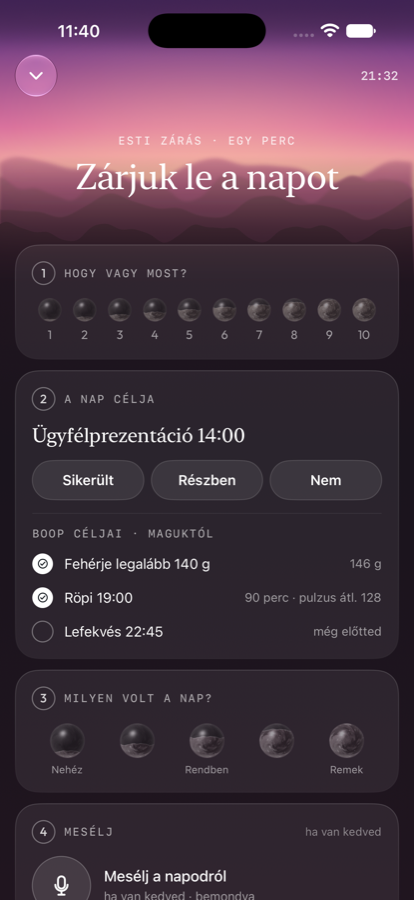
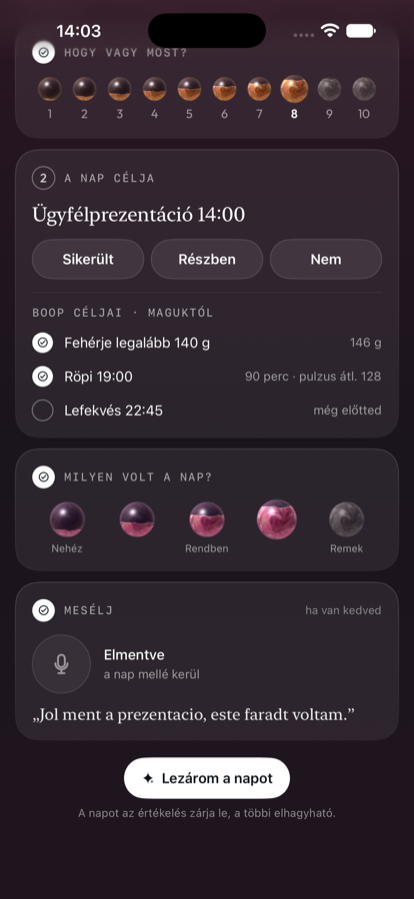
docs(boop): B3 spike — living orbs in the evening close, Mesélj takes typing too (owner feedback) (mezo-r36n9.13)

diff --git a/docs/design_2.0/prototypes/boop-ios-spike/BoopSpike/RitmusParts.swift b/docs/design_2.0/prototypes/boop-ios-spike/BoopSpike/RitmusParts.swift
@@ -74,13 +74,14 @@ struct RLevelRow: View {
     var value: Int?
     var count = 10
     var size: CGFloat = 30
+    var motion: OrbMotion? = nil          // living orbs (the default Napkelte look) when given
     var onPick: (Int) -> Void
     var body: some View {
         HStack(spacing: 0) {
             ForEach(1...count, id: \.self) { k in
                 let on = value.map { k <= $0 } ?? false
                 VStack(spacing: 5) {
-                    StillOrb(colors: palette, size: size, level: Double(k) / Double(count))
+                    orb(k)
                         .saturation(on ? 1 : 0.15).opacity(on ? 1 : 0.5)
                         .scaleEffect(value == k ? 1.18 : 1)
                     Text("\(k)").font(.custom("Outfit", size: 13).weight(value == k ? .semibold : .regular))
@@ -94,6 +95,11 @@ struct RLevelRow: View {
             }
         }
         .sensoryFeedback(.selection, trigger: value)
+    }
+    @ViewBuilder private func orb(_ k: Int) -> some View {
+        let lv = Double(k) / Double(count)
+        if let motion { LivingOrb(mood: .good, size: size, motion: motion, palette: palette, glow: false, level: lv).allowsHitTesting(false) }
+        else { StillOrb(colors: palette, size: size, level: lv) }
     }
 }
 
@@ -303,6 +309,8 @@ struct RVoiceRecorder: View {
     @State private var writing = false
     @State private var elapsed = 0
     @State private var typed = ""
+    @State private var draft = ""
+    @FocusState private var typing: Bool
 
     var body: some View {
         VStack(alignment: .leading, spacing: 12) {
@@ -328,16 +336,36 @@ struct RVoiceRecorder: View {
                     } else if writing {
                         Text("Leírom…").font(.system(size: 15, weight: .medium)).foregroundStyle(.white)
                     } else if text != nil {
-                        Text(offline ? "Felvétel elmentve" : "Leírtam").font(.system(size: 15, weight: .medium)).foregroundStyle(.white)
-                        Text(offline ? "szöveggé alakítom, amint lesz net" : "a nap mellé kerül").font(.system(size: 13)).foregroundStyle(.white.opacity(0.55))
+                        Text(typedByHand ? "Elmentve" : (offline ? "Felvétel elmentve" : "Leírtam")).font(.system(size: 15, weight: .medium)).foregroundStyle(.white)
+                        Text(typedByHand ? "a nap mellé kerül" : (offline ? "szöveggé alakítom, amint lesz net" : "a nap mellé kerül")).font(.system(size: 13)).foregroundStyle(.white.opacity(0.55))
                     } else {
                         Text(prompt).font(.system(size: 16, weight: .medium)).foregroundStyle(.white)
-                        Text("ha van kedved · bemondva").font(.system(size: 13)).foregroundStyle(.white.opacity(0.55))
+                        Text("ha van kedved · mondd be vagy írd le").font(.system(size: 13)).foregroundStyle(.white.opacity(0.55))
                     }
                 }
                 Spacer()
             }
-            if !typed.isEmpty && !offline {
+            if text == nil && !recording && !writing {
+                // typing is as good as talking: the same text lands on the day
+                HStack(spacing: 10) {
+                    TextField("", text: $draft, prompt: Text("Vagy írd be…").foregroundStyle(.white.opacity(0.45)), axis: .vertical)
+                        .lineLimit(1...5).font(.system(size: 15)).foregroundStyle(.white).tint(.white)
+                        .focused($typing).submitLabel(.done)
+                        .onSubmit { commitTyped() }
+                    if !draft.trimmingCharacters(in: .whitespacesAndNewlines).isEmpty {
+                        Button { commitTyped() } label: {
+                            Image(systemName: "arrow.up").font(.system(size: 14, weight: .bold)).foregroundStyle(gBase)
+                                .frame(width: 32, height: 32).background(Circle().fill(.white))
+                        }
+                        .buttonStyle(.plain)
+                    }
+                }
+                .padding(.leading, 16).padding(.trailing, 6).padding(.vertical, 8)
+                .frame(minHeight: 46)
+                .background(RoundedRectangle(cornerRadius: 23, style: .continuous).fill(.white.opacity(0.08)))
+                .transition(.opacity)
+            }
+            if !typed.isEmpty {
                 Text("„\(typed)”").font(AuraFont.serif(17)).lineSpacing(3).foregroundStyle(.white.opacity(0.9))
                     .transition(.opacity)
             }
@@ -349,7 +377,14 @@ struct RVoiceRecorder: View {
         .onAppear { if let t = text, !offline { typed = t } }
     }
 
-    private func start() { withAnimation { recording = true; elapsed = 0 } }
+    private func commitTyped() {
+        let t = draft.trimmingCharacters(in: .whitespacesAndNewlines)
+        guard !t.isEmpty else { return }
+        onTap(); typing = false
+        withAnimation { typed = t; text = t; draft = ""; typedByHand = true }
+    }
+    @State private var typedByHand = false
+    private func start() { withAnimation { recording = true; elapsed = 0; typing = false } }
     private func stop() {
         withAnimation { recording = false }
         if offline { text = sample; return }

diff --git a/docs/design_2.0/prototypes/boop-ios-spike/BoopSpike/RitmusEste.swift b/docs/design_2.0/prototypes/boop-ios-spike/BoopSpike/RitmusEste.swift
@@ -61,7 +61,7 @@ struct RitmusEste: View {
     private var steps: some View {
         VStack(spacing: 12) {
             step(1, "HOGY VAGY MOST?", done: energy != nil) {
-                RLevelRow(palette: SunMetric.all[2].orb, value: energy, size: 26) { k in taps += 1; withAnimation { energy = k } }
+                RLevelRow(palette: SunMetric.all[2].orb, value: energy, size: 26, motion: motion) { k in taps += 1; withAnimation { energy = k } }
             }
             step(2, "A NAP CÉLJA", done: outcome != nil) {
                 VStack(alignment: .leading, spacing: 14) {
@@ -90,7 +90,7 @@ struct RitmusEste: View {
                     ForEach(1...5, id: \.self) { k in
                         let on = k <= rating
                         VStack(spacing: 6) {
-                            StillOrb(colors: palette, size: 38, level: Double(k) / 5)
+                            LivingOrb(mood: .good, size: 38, motion: motion, palette: palette, glow: false, level: Double(k) / 5).allowsHitTesting(false)
                                 .saturation(on ? 1 : 0.15).opacity(on ? 1 : 0.55)
                                 .scaleEffect(k == rating ? 1.14 : 1)
                             Text(["Nehéz", "", "Rendben", "", "Remek"][k - 1]).font(.system(size: 11)).foregroundStyle(.white.opacity(0.55)).frame(height: 12)

diff --git a/docs/superpowers/plans/2026-11-11-boop-b3-napi-ritmus.md b/docs/superpowers/plans/2026-11-11-boop-b3-napi-ritmus.md
@@ -189,7 +189,7 @@ behind the cut line and is filed, not built, unless the paid team is active when
 **Files:**
 - Create: `ios/Boop/Ritmus/CheckinView.swift` (from spike `RitmusCheckin.swift`: painted sky per hue, swipe on the orb 26 pt/step, soft haptic, *Kihagyom* / *Tovább*·*Kész*, progress dots, "Most csak ennyi" from item 2 → `quick_exit`, overwrite line "A délit már kitöltötted 12:40-kor — felülírod?", pain/craving variants)
 - Create: `ios/Boop/Ritmus/CheckinDone.swift` ("MENTVE · HH:mm" / "Ráesett a görbére", curve card, detail, optional voice line → check-in `note`, Boop's line online / calm offline line, offline chip)
-- Create: `ios/BoopKit/Sources/BoopDesign/Napkelte/Ritmus.swift` — `EnergyCurveCard` (dashed prediction + soft fill, solid owner line, numbered white dots, "most" line, dashed ring on pending dots, tap to select), `CheckInDetail` (3-column answers + "AZ ÓRÁD EKKOR", "—" for nulls, "lejjebb" when HRV < usual), `LevelRow`, `OfflineChip`, `VoiceRecorderRow`; glyphs `mic` + `offline` into the Napkelte glyph set (spike `RMicGlyph`/`ROfflineGlyph`)
+- Create: `ios/BoopKit/Sources/BoopDesign/Napkelte/Ritmus.swift` — `EnergyCurveCard` (dashed prediction + soft fill, solid owner line, numbered white dots, "most" line, dashed ring on pending dots, tap to select), `CheckInDetail` (3-column answers + "AZ ÓRÁD EKKOR", "—" for nulls, "lejjebb" when HRV < usual), `LevelRow` (living orbs via `LivingOrb` + a shared `OrbMotion`), `OfflineChip`, `VoiceRecorderRow` (mic **and** a "Vagy írd be…" text field; typed text skips transcription); glyphs `mic` + `offline` into the Napkelte glyph set (spike `RMicGlyph`/`ROfflineGlyph`)
 - Test: `ios/BoopTests/CheckinFlowTests.swift` (view-model level), BoopDesign snapshot-free unit tests for the curve geometry (`EnergyCurveGeometryTests`)
 
 - [ ] **Step 1: Failing tests** — `rushedCheckInSavesEnergyOnlyWithQuickExit` (energy, Tovább, Most csak ennyi → asked_items = shown, quick_exit), `unchangedItemNeedsNoSwipe`, `skippedItemNotSent`, `secondCheckInSameMomentAsksBeforeOverwrite`, `painQuestionShowsGateThenRegions`; geometry `dotsMapHoursSixToTwentyFour`.
@@ -211,11 +211,11 @@ behind the cut line and is filed, not built, unless the paid team is active when
 ### Task 10: Este — the one-minute close + voice journal
 
 **Files:**
-- Create: `ios/Boop/Ritmus/EsteView.swift` (from spike `RitmusEste.swift`: four numbered steps, *Lezárom a napot* enabled after the rating, closed view with Boop's sentence, "A MAI NAPOD", bedtime line, offline variants)
+- Create: `ios/Boop/Ritmus/EsteView.swift` (from spike `RitmusEste.swift`: four numbered steps, all orbs living (moving), *Lezárom a napot* enabled after the rating, closed view with Boop's sentence, "A MAI NAPOD", bedtime line, offline variants)
 - Create: `ios/BoopKit/Sources/BoopCore/Ritmus/VoiceJournal.swift` — `public final class VoiceJournal` (record m4a to the outbox dir; on-device `SFSpeechRecognizer(locale: hu-HU)` when `supportsOnDeviceRecognition`, else `voice` outbox item → transcribe online; deletes audio after a transcript)
 - Test: `EsteFlowTests.swift`, `VoiceJournalTests.swift` (fake recognizer)
 
-- [ ] **Step 1: Failing tests** — `closeDisabledUntilRating`, `closeSendsDayCloseThenJournalRelink`, `closeOfflineShowsSavedAndLaterLine`, `planGoalsCopiedWithMet`, `audioDeletedAfterTranscript`, `noOnDeviceFallsBackToUpload`.
+- [ ] **Step 1: Failing tests** — `closeDisabledUntilRating`, `closeSendsDayCloseThenJournalRelink`, `closeOfflineShowsSavedAndLaterLine`, `planGoalsCopiedWithMet`, `typedJournalSentWithoutTranscription`, `audioDeletedAfterTranscript`, `noOnDeviceFallsBackToUpload`.
 - [ ] **Step 2:** Run — FAIL. **Step 3:** Implement to match `ritmus-5-este.png`, `ritmus-6-este-lezarva.png`. **Step 4:** Run — PASS; taps open + 3 + close = 5.
 - [ ] **Step 5:** Commit `feat(ios): one-minute evening close with voice (mezo-r36n9.13)`.
 
@@ -298,7 +298,7 @@ ship without it, and tell the owner.
 - [ ] Check-in: five core items + question of the day, answered by swiping the orb, *Tovább*, "Most csak ennyi" from item 2; starts from the last answer; matches `ritmus-2`, `ritmus-2b`.
 - [ ] After saving: the dot on the energy curve with "AZ ÓRÁD EKKOR" (pulse, HRV, steps, sleep; "—" when missing), optional sentence, Boop's line; matches `ritmus-3`.
 - [ ] Ma · Napközben shows the energy curve with today's dots; matches `ritmus-4`.
-- [ ] Este: four steps, *Lezárom* after the rating, voice "Mesélj", closed summary + bedtime line; 5 taps; matches `ritmus-5`, `ritmus-6`.
+- [ ] Este: four steps with moving orbs, *Lezárom* after the rating, "Mesélj" by voice **or typing**, closed summary + bedtime line; 5 taps; matches `ritmus-5`, `ritmus-6`.
 - [ ] Boop tab: "Boop látja" chips, 3 ready questions, answers that name today's data; matches `ritmus-7`, `ritmus-8`.
 - [ ] Napló: the last 14 days list, tap opens the day.
 - [ ] Reminders at 07:30 / 12:30 / 16:00 (only if not done) and the close at bedtime − 75 min; tapping opens the flow directly.

diff --git a/docs/superpowers/specs/2026-11-11-boop-b3-napi-ritmus-design.md b/docs/superpowers/specs/2026-11-11-boop-b3-napi-ritmus-design.md
@@ -37,7 +37,8 @@ moment. B3 also restarts the calibration data B7 (day capacity) needs.
 | D8 | **Chat must already know everything** ("ne kelljen mindig kontextet adni magamról, célról, edzés, sport, kaja") — questions like "miért vagyok fáradtabb, mint tegnap?", "mire figyeljek ma az edzésen?", "mikor és mit egyek, hogy kimaxoljam a versenyt / röpit / kondit?", "mennyivel egyek edzés előtt?". | Boop's chat gets today's day block pushed into every turn (§7.6), shows what it sees, offers ready questions, and names the data in its answers. |
 | D9 | Push/widget limited until the paid team → **design now, gate it**. | Local notifications ship in B3 (they need no paid team); the in-place widget and answer-from-notification come when the paid team lands (§7.8). |
 
-Spike iteration decisions: swipe instead of tapping (D5); five core items + question of the day (D4).
+Spike iteration decisions: swipe instead of tapping (D5); five core items + question of the day (D4); the close's orbs
+are living orbs and Mesélj takes typing as well as voice (2026-11-12).
 
 ## 3. Goals · non-goals · anti-goals
 
@@ -113,12 +114,14 @@ tapping a dot opens the same detail inline. Past check-in rows on the timeline s
 
 ### 5.4 Este — the close (full screen, dusk sky)
 "ESTI ZÁRÁS · EGY PERC / Zárjuk le a napot" — one page, four numbered steps, each ticks when answered:
-1. **Hogy vagy most?** — energy 1–10 (one tap on ten small level orbs; this is the evening check-in's energy).
+1. **Hogy vagy most?** — energy 1–10 (one tap on ten small **living** level orbs — the same moving orbs as everywhere else, owner 2026-11-12; this is the evening check-in's energy).
 2. **A nap célja** — the goal text + *Sikerült · Részben · Nem*; under it **"BOOP CÉLJAI · MAGUKTÓL"**: B2's
    `DayPlan.goals` (protein, session, bedtime) ticked from data ("146 g", "90 perc · pulzus átl. 128", "még előtted").
    B2 leaves the session's `met = nil` (the brief has no done flag); **B3 adds it** (§7.4a).
-3. **Milyen volt a nap?** — five orbs, *Nehéz … Rendben … Remek*.
-4. **Mesélj** (ha van kedved) — one tap to talk, one to stop; "Leírom…" then the transcript.
+3. **Milyen volt a nap?** — five living orbs, *Nehéz … Rendben … Remek*.
+4. **Mesélj** (ha van kedved) — one tap to talk, one to stop; "Leírom…" then the transcript; **or type it** in the
+   "Vagy írd be…" field under the mic (owner 2026-11-12) — typed text lands in the same journal entry, no transcription.
+   The same voice-or-type row is used for the optional line after a check-in.
 
 *Lezárom a napot* is enabled once step 3 is answered ("A napot az értékelés zárja le, a többi elhagyható").
 After closing: Boop's one sentence about the day, "A MAI NAPOD" summary (értékelés, a nap célja, energia este,
